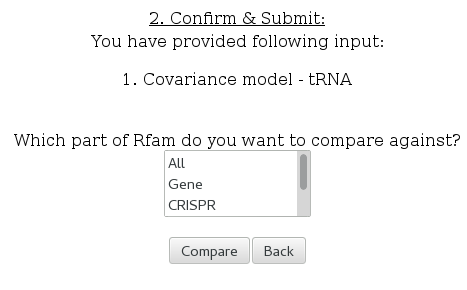
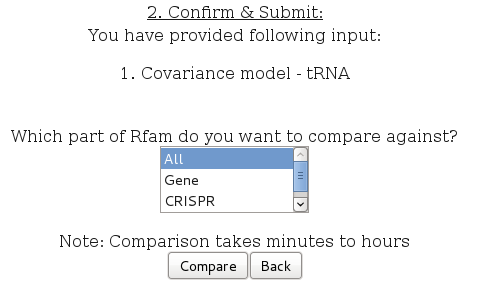
Added note that processing can take from minutes to hours to input page, help and samples

diff --git a/javascript/input.js b/javascript/input.js
@@ -133,7 +133,7 @@ function sample_mode1(){
       "</td>"+
       "<td id=\"step2_2_content\" style=\"vertical-align:top\">"+
 		"<form action=\"cmcws.cgi\" id=\"submit-form\"  method=\"post\" enctype=\"multipart/form-data\">"+
-	"Which part of Rfam do you want to compare against?  "+
+	"Which part of Rfam do you want to compare against?<br>"+
 	"<select id=\"select_slice\" size=\"3\" name=\"select_slice\">"+
 	"<option selected>All</option>"+
 	"<option>Gene</option>"+
@@ -165,6 +165,7 @@ function sample_mode1(){
         "<input id=\"page\" value=\"1\"  name=\"page\" type=\"hidden\">"+
 	"<input id=\"mode\" value=\"1\"  name=\"mode\" type=\"hidden\">"+
 	"<input id=\"uploaded_file\" value=\"sample_mode_1\"  name=\"uploaded_file\" type=\"hidden\">"+
+	"Note: Comparison takes minutes to hours<br>"+
 	"<input type=\"submit\" value=\"Compare\">"+
         "<input type=\"button\" value=\"Back\" onclick=\"back(this)\">"+
         "</form>"+
@@ -223,7 +224,7 @@ function sample_mode2(){
       "</td>"+
       "<td id=\"step2_2_content\" style=\"vertical-align:top\">"+
 		"<form action=\"cmcws.cgi\" id=\"submit-form\"  method=\"post\" enctype=\"multipart/form-data\">"+
-	"Press Compare to proceed:"+
+	"Note: Comparison takes minutes to hours"+
 	"<br>"+
 	"<br>"+
         "<input id=\"page\" value=\"1\"  name=\"page\" type=\"hidden\">"+
